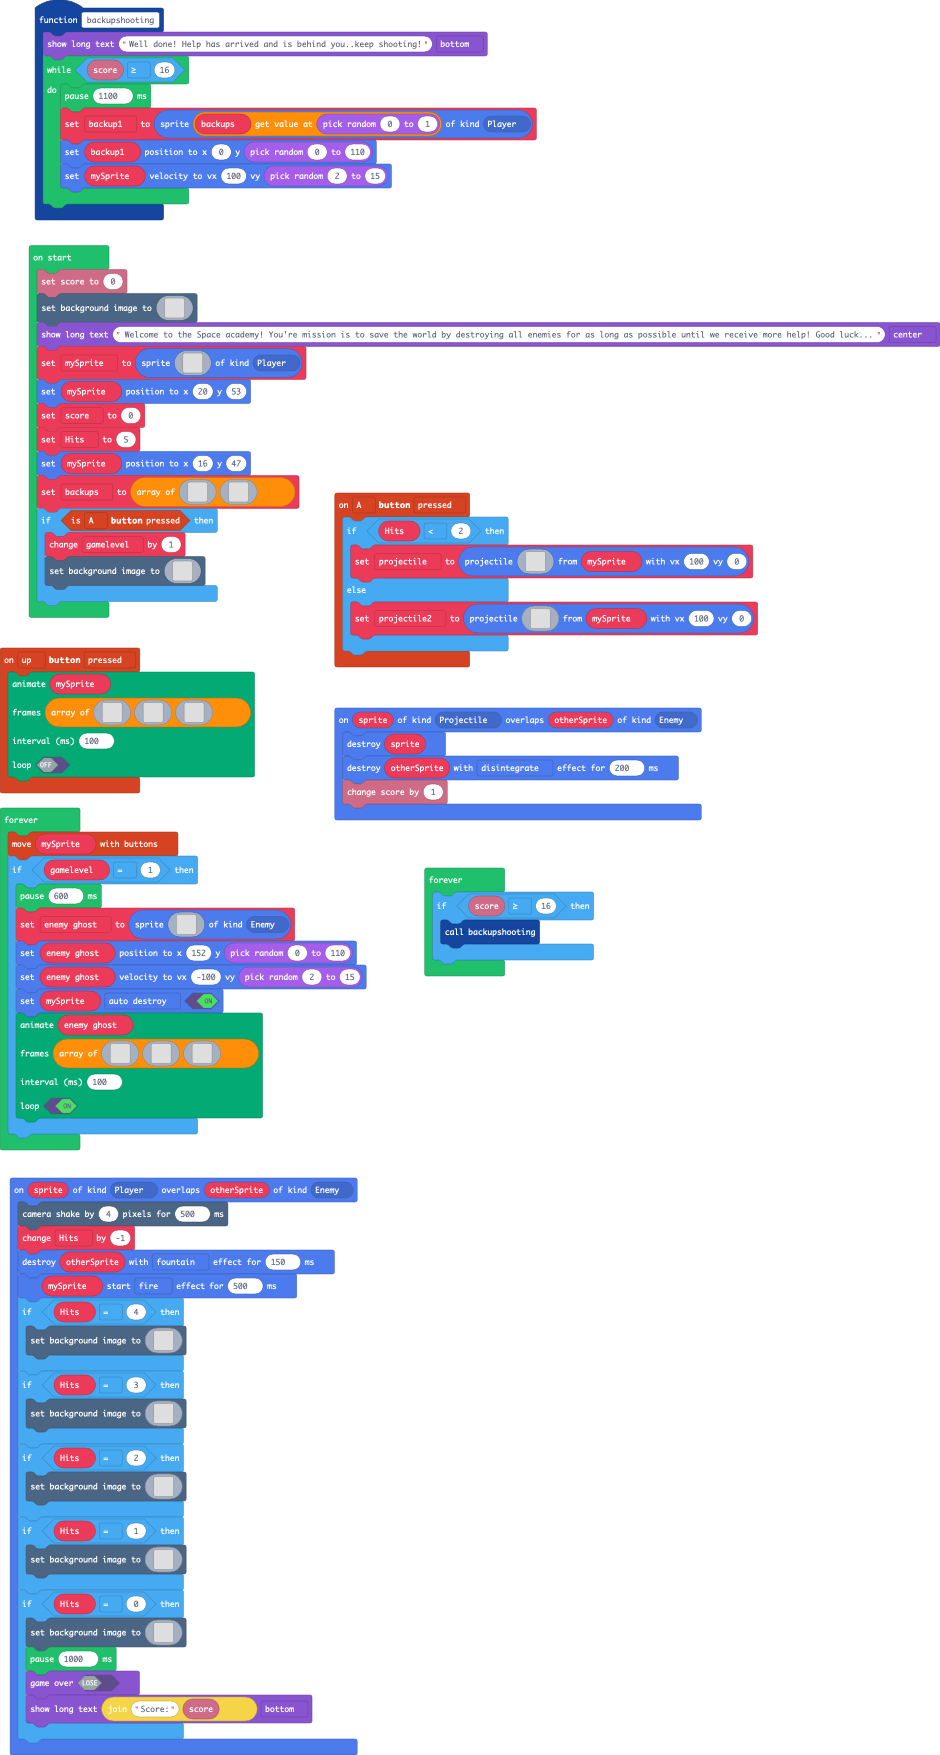
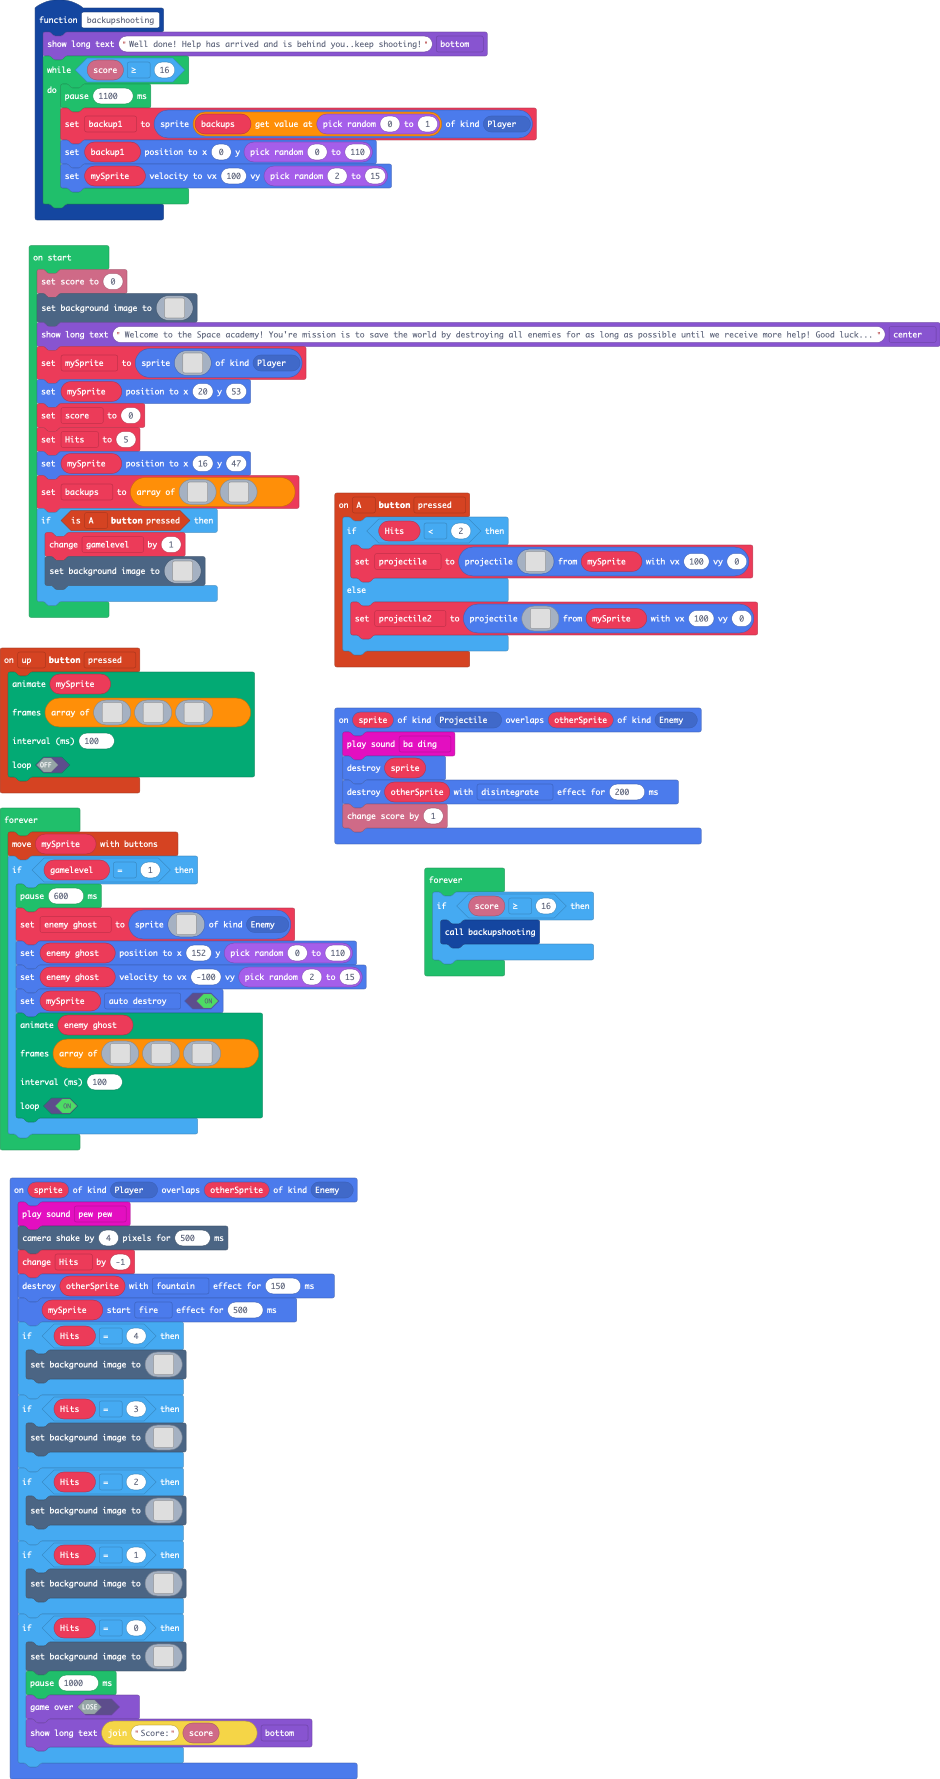
added some sound

Changed region(s): [[0.0, 0.0, 1.0, 0.9846], [0.3394, 0.2769, 0.8021, 0.5538], [0.2777, 0.9538, 0.3085, 0.9846]]

diff --git a/main.ts b/main.ts
@@ -20,6 +20,7 @@ namespace myTiles {
 `
 }
 sprites.onOverlap(SpriteKind.Projectile, SpriteKind.Enemy, function (sprite, otherSprite) {
+    music.baDing.play()
     sprite.destroy()
     otherSprite.destroy(effects.disintegrate, 200)
     info.changeScoreBy(1)
@@ -75,6 +76,7 @@ controller.A.onEvent(ControllerButtonEvent.Pressed, function () {
     }
 })
 sprites.onOverlap(SpriteKind.Player, SpriteKind.Enemy, function (sprite, otherSprite) {
+    music.pewPew.play()
     scene.cameraShake(4, 500)
     Hits += -1
     otherSprite.destroy(effects.fountain, 150)
